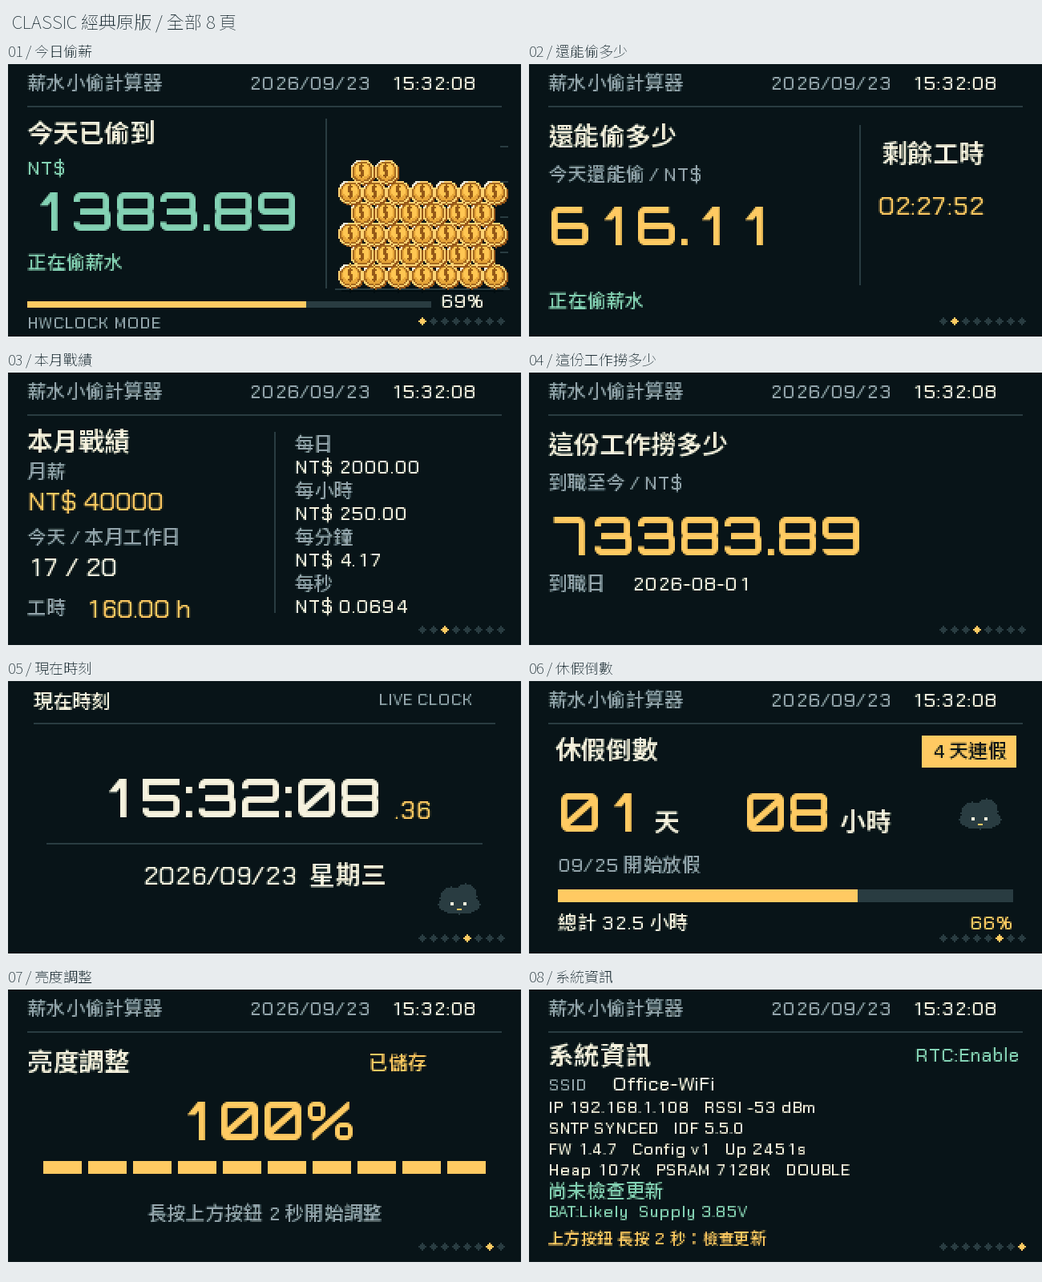
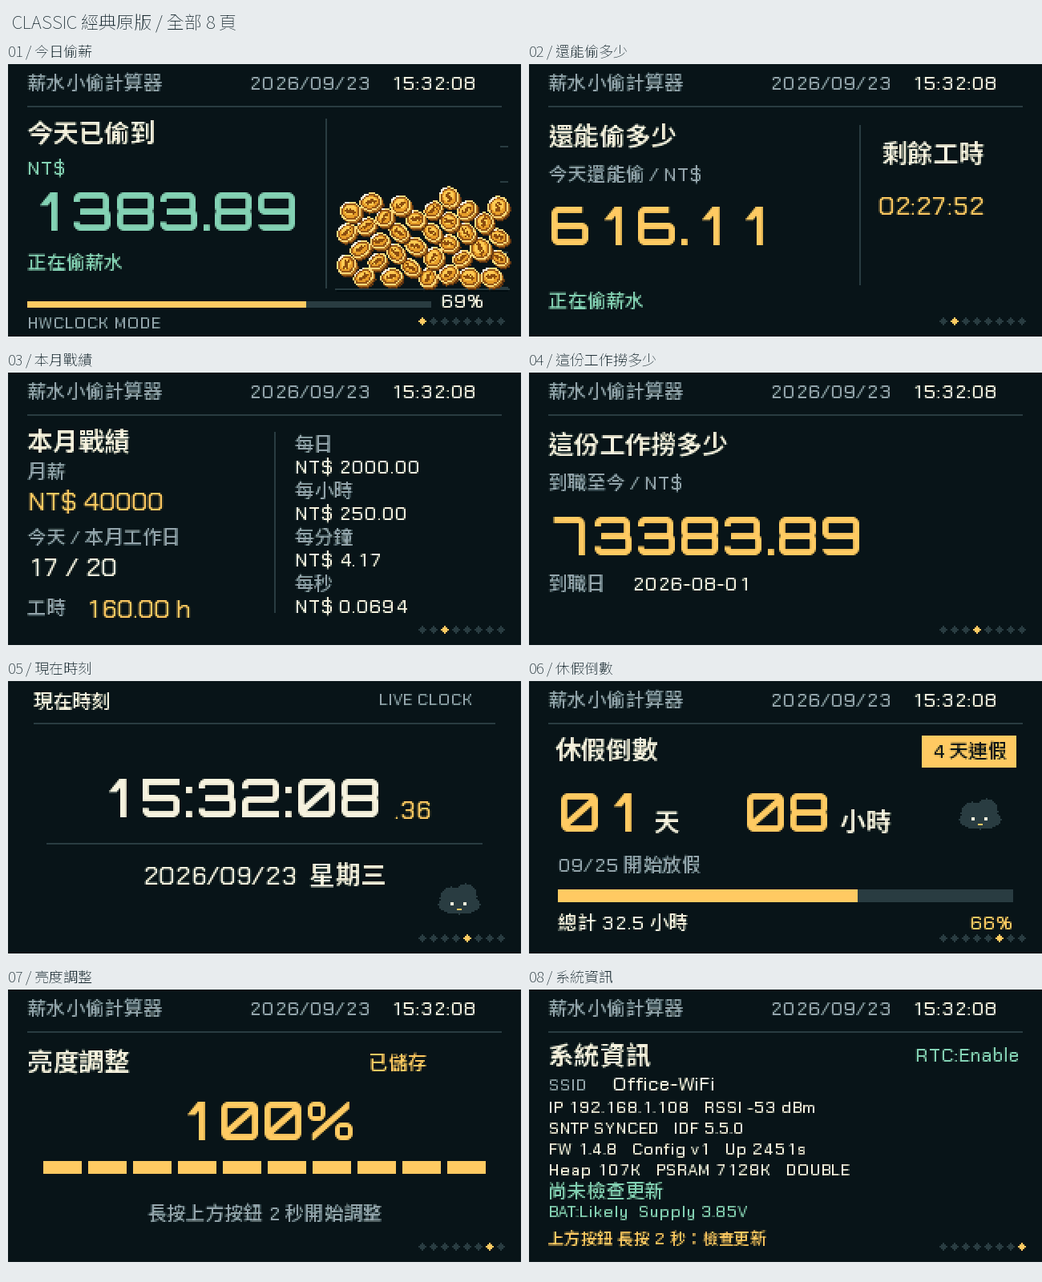
Release v1.4.8: dimensional coins and randomized collision piles

Changed region(s): [[0.3077, 0.125, 0.4923, 0.25]]

diff --git a/components/coin_physics/coin_physics.cpp b/components/coin_physics/coin_physics.cpp
@@ -26,11 +26,28 @@ void CoinPhysicsEngine::spawn() {
     *slot={};
     slot->radius=random(MIN_RADIUS,MAX_RADIUS);
     slot->x=random(LEFT+slot->radius,RIGHT-slot->radius);
+    float pile_top=FLOOR;
+    for(const auto &c:coins_)if(c.active && c.sleeping)pile_top=std::min(pile_top,c.y-c.radius);
+    const bool crowded=pile_top<TOP+4*MAX_RADIUS;
+    if(crowded) {
+        // Near capacity, scatter into a lower part of the pile instead of hiding
+        // earned coins above the screen. Landing is still resolved by collisions.
+        float lowest=-1e9f;
+        for(unsigned trial=0;trial<16;++trial) {
+            const float x=random(LEFT+slot->radius,RIGHT-slot->radius);
+            float y=FLOOR-slot->radius;
+            for(const auto &c:coins_)if(c.active && c.sleeping) {
+                const float dx=x-c.x,r=slot->radius+c.radius;
+                if(std::abs(dx)<r)y=std::min(y,c.y-std::sqrt(r*r-dx*dx));
+            }
+            if(y>lowest) { lowest=y;slot->x=x; }
+        }
+    }
     slot->y=TOP-slot->radius-random(0,8);
     // Burst spawns form a separated queue above the clipped display area.
     for (const auto &c:coins_) if (c.active)
         slot->y=std::min(slot->y,c.y-c.radius-slot->radius-2.f);
-    slot->vx=random(-25,25); slot->vy=random(6,20);
+    slot->vx=crowded?random(-8,8):random(-25,25); slot->vy=random(6,20);
     slot->rotation=random(-3.14f,3.14f);
     slot->angularVelocity=random(3,8) * (random(0,1) > .5f ? 1 : -1);
     slot->restitution=random(.34f,.49f); slot->friction=random(.52f,.67f);
@@ -45,24 +62,68 @@ void CoinPhysicsEngine::rest_coin() {
     c.rotation=.2f; c.sleeping=true;
 }
 void CoinPhysicsEngine::set_count(unsigned count,bool animate_last) {
-    reset();
     count=std::min(count,MAX_COINS);
-    for(unsigned i=0;i<count;++i) {
-        const unsigned pair=i/13,within=i%13;
-        const bool inset=within>=7;
-        const unsigned row=pair*2+unsigned(inset),column=inset?within-7:within;
-        const float x=LEFT+(RIGHT-LEFT-14*MAX_RADIUS)/2+MAX_RADIUS
-                     +column*2*MAX_RADIUS+(inset?MAX_RADIUS:0);
-        const float y=FLOOR-MAX_RADIUS-row*1.7320508f*MAX_RADIUS;
-        if(animate_last && i+1==count) {
-            spawn();
-            coins_[i].x=x;coins_[i].vx=0;
-        } else {
-            auto &c=coins_[i];
-            c.active=c.sleeping=true;c.radius=MAX_RADIUS;c.x=x;c.y=y;
-            c.rotation=.2f;c.restitution=.4f;c.friction=.6f;c.order=++order_;
+    unsigned current=0;
+    for(const auto &c:coins_)current+=c.active;
+    if(animate_last && count==current+1) { spawn();return; }
+    reset();
+    const unsigned settled=count-(animate_last && count>0 ? 1U : 0U);
+    for(unsigned i=0;i<settled;++i) {
+        spawn();auto &c=coins_[i];
+        float best=-1e9f;
+        // A restart restores contact pockets directly instead of running seconds
+        // of simulation in the display task. Random radii and pocket choices keep
+        // the pile irregular. Each pocket rests on the floor, wall + coin, or two coins.
+        const auto consider=[&](float x,float y) {
+            if(x<LEFT+c.radius-.001f || x>RIGHT-c.radius+.001f || y>FLOOR-c.radius+.001f)return;
+            for(unsigned j=0;j<i;++j) {
+                const auto &b=coins_[j];const float dx=x-b.x,dy=y-b.y,r=c.radius+b.radius;
+                if(dx*dx+dy*dy<(r-.001f)*(r-.001f))return;
+            }
+            const float score=y+random(-2.f,2.f);
+            if(score>best) { best=score;c.x=x;c.y=y; }
+        };
+        consider(LEFT+c.radius,FLOOR-c.radius);
+        consider(RIGHT-c.radius,FLOOR-c.radius);
+        for(unsigned trial=0;trial<12;++trial)
+            consider(random(LEFT+c.radius,RIGHT-c.radius),FLOOR-c.radius);
+        for(unsigned j=0;j<i;++j) {
+            const auto &a=coins_[j];const float ra=c.radius+a.radius;
+            // Floor contacts beside a bottom coin, and contacts against either wall.
+            const float dy=FLOOR-c.radius-a.y;
+            if(std::abs(dy)<ra) {
+                const float dx=std::sqrt(ra*ra-dy*dy);
+                consider(a.x-dx,FLOOR-c.radius);consider(a.x+dx,FLOOR-c.radius);
+            }
+            for(const float x:{LEFT+c.radius,RIGHT-c.radius}) {
+                const float dx=x-a.x;
+                if(std::abs(dx)<ra)consider(x,a.y-std::sqrt(ra*ra-dx*dx));
+            }
+            for(unsigned k=j+1;k<i;++k) {
+                const auto &b=coins_[k];const float rb=c.radius+b.radius;
+                const float dx=b.x-a.x,dy=b.y-a.y,d=std::sqrt(dx*dx+dy*dy);
+                if(d<.001f || d>ra+rb || d<std::abs(ra-rb))continue;
+                const float along=(ra*ra-rb*rb+d*d)/(2*d);
+                const float height=std::sqrt(std::max(0.f,ra*ra-along*along));
+                const float x=a.x+along*dx/d,y=a.y+along*dy/d;
+                const auto pocket=[&](float px,float py) {
+                    if(py<std::min(a.y,b.y) && px>=std::min(a.x,b.x) && px<=std::max(a.x,b.x))consider(px,py);
+                };
+                pocket(x-height*dy/d,y+height*dx/d);
+                pocket(x+height*dy/d,y-height*dx/d);
+            }
         }
+        // A vertical drop still finds an exact support if no two-contact pocket fits.
+        if(best==-1e9f) {
+            c.y=FLOOR-c.radius;
+            for(unsigned j=0;j<i;++j) {
+                const auto &b=coins_[j];const float dx=c.x-b.x,r=c.radius+b.radius;
+                if(std::abs(dx)<r)c.y=std::min(c.y,b.y-std::sqrt(r*r-dx*dx));
+            }
+        }
+        c.vx=c.vy=c.angularVelocity=0;c.sleeping=true;c.quietTime=.35f;
     }
+    if(animate_last && count)spawn();
 }
 void CoinPhysicsEngine::supported(std::array<bool,MAX_COINS> &result) const {
     result.fill(false);
@@ -140,6 +201,7 @@ void CoinPhysicsEngine::substep(float h) {
             if (distance > .0001f) { nx=dx/distance; ny=dy/distance; }
             const float approach=(b.vx-a.vx)*nx+(b.vy-a.vy)*ny;
             const float penetration=radius-distance;
+            const bool restingA=a.sleeping && supports[i],restingB=b.sleeping && supports[j];
             if (approach < -28.f || penetration > .7f) {
                 if (a.sleeping) wake(a);
                 if (b.sleeping) wake(b);
@@ -153,15 +215,21 @@ void CoinPhysicsEngine::substep(float h) {
                 b.x+=nx*correction*massB; b.y+=ny*correction*massB;
             }
             if (approach < 0) {
+                // A settled, supported pile resists the initial downward hit as
+                // a group. Keep positional correction symmetric; side impacts
+                // and subsequent movement still use the normal free-coin mass.
+                const float impactA=massA*(restingA && std::abs(ny)>.5f ? .2f : 1.f);
+                const float impactB=massB*(restingB && std::abs(ny)>.5f ? .2f : 1.f);
+                const float impactSum=impactA+impactB;
                 const float restitution=approach < -35.f ? std::min(a.restitution,b.restitution) : 0;
-                const float impulse=-(1+restitution)*approach/massSum;
-                a.vx-=impulse*nx*massA; a.vy-=impulse*ny*massA;
-                b.vx+=impulse*nx*massB; b.vy+=impulse*ny*massB;
+                const float impulse=-(1+restitution)*approach/impactSum;
+                a.vx-=impulse*nx*impactA; a.vy-=impulse*ny*impactA;
+                b.vx+=impulse*nx*impactB; b.vy+=impulse*ny*impactB;
                 const float tangent=(b.vx-a.vx)*(-ny)+(b.vy-a.vy)*nx;
                 const float limit=std::min(a.friction,b.friction)*impulse;
-                const float friction=std::clamp(-tangent/massSum,-limit,limit);
-                a.vx-=friction*(-ny)*massA; a.vy-=friction*nx*massA;
-                b.vx+=friction*(-ny)*massB; b.vy+=friction*nx*massB;
+                const float friction=std::clamp(-tangent/impactSum,-limit,limit);
+                a.vx-=friction*(-ny)*impactA; a.vy-=friction*nx*impactA;
+                b.vx+=friction*(-ny)*impactB; b.vy+=friction*nx*impactB;
                 if (approach < -35.f) {
                     a.squash=std::max(a.squash,std::min(.1f,-approach/2200.f));
                     b.squash=std::max(b.squash,std::min(.1f,-approach/2200.f));

diff --git a/components/display/ui_renderer.cpp b/components/display/ui_renderer.cpp
@@ -54,6 +54,21 @@ public:
             rect(start,row,end-start+1,1,color);
         }
     }
+    void tilted_ellipse(float x,float y,float rx,float ry,float cs,float sn,uint16_t color) {
+        if(rx<.5f || ry<.5f)return;
+        const float ax=1/(rx*rx),ay=1/(ry*ry);
+        const float a=cs*cs*ax+sn*sn*ay,b=cs*sn*(ax-ay),d=sn*sn*ax+cs*cs*ay;
+        const float extent=std::sqrt(rx*rx*sn*sn+ry*ry*cs*cs);
+        const int first=std::max({top,clip_top,int(std::floor(y-extent))});
+        const int last=std::min({bottom-1,clip_bottom-1,int(std::ceil(y+extent))});
+        for(int row=first;row<=last;++row) {
+            const float dy=row-y,center=-b*dy/a,span2=(1-d*dy*dy)/a+center*center;
+            if(span2<0)continue;
+            const float span=std::sqrt(span2);
+            const int start=int(std::ceil(x+center-span)),end=int(std::floor(x+center+span));
+            rect(start,row,end-start+1,1,color);
+        }
+    }
     void pixel(int x,int y,uint16_t color,uint8_t alpha=15) {
         if (theme==DisplayTheme::Handheld) alpha=alpha>=8?15:0;
         color=this->color(color);
@@ -174,30 +189,45 @@ const char *work_label(WorkState state) {
     }
 }
 void coin(Canvas &c,const Coin &coin) {
-    // Face-on at rest: visible circular rims meet where the physics colliders meet.
-    const float spin=coin.sleeping ? 0.f : std::min(1.f,std::abs(coin.angularVelocity)/3.f);
-    const float face=1.f-spin*(1.f-std::max(.35f,std::abs(std::cos(coin.rotation))));
+    // Keep the settled pose: tilted faces, milled edges and directional lighting
+    // give each small coin depth even after its physical motion has stopped.
+    const float spin=std::min(1.f,std::abs(coin.angularVelocity)/3.f);
+    const float turn=std::abs(std::cos(coin.rotation));
+    const float rest_face=.72f+.25f*turn;
+    const float face=rest_face-spin*(rest_face-.32f)*(1-turn);
+    const float roll=coin.rotation*.7f,cs=std::cos(roll),sn=std::sin(roll);
     const float rx=coin.radius*face*(1+coin.squash*.65f),ry=coin.radius*(1-coin.squash);
     const float height=std::max(0.f,CoinPhysicsEngine::FLOOR-coin.y-coin.radius);
     if (height>2) c.ellipse(coin.x,CoinPhysicsEngine::FLOOR+2,std::max(3.f,coin.radius-height*.08f),1,rgb(7,13,17));
-    c.ellipse(coin.x+1,coin.y+1,rx,ry,rgb(145,87,31));
-    c.ellipse(coin.x,coin.y,rx,ry,rgb(251,211,117));
-    c.ellipse(coin.x,coin.y,rx-1,ry-1,rgb(166,107,37));
-    c.ellipse(coin.x,coin.y,rx-2,ry-2,rgb(231,167,58));
-    c.ellipse(coin.x,coin.y-1,rx-3,ry-3,rgb(248,196,81));
-    // Short moving highlight arc, with an inset rim and a compressed dollar mark.
+    const auto disc=[&](float dx,float dy,float inset,uint16_t color) {
+        c.tilted_ellipse(coin.x+dx,coin.y+dy,rx-inset,ry-inset,cs,sn,color);
+    };
+    disc(1.5f,1.8f,0,rgb(92,49,18));
+    disc(.8f,1.f,0,rgb(174,108,33));
+    disc(0,0,0,rgb(255,218,124));
+    disc(0,0,1,rgb(145,85,25));
+    disc(0,0,2,rgb(228,158,44));
+    disc(-.3f,-.7f,3,rgb(255,202,86));
+    const auto point=[&](float x,float y,uint16_t color) {
+        c.pixel(int(std::lround(coin.x+cs*x-sn*y)),int(std::lround(coin.y+sn*x+cs*y)),color);
+    };
+    // Short rim highlights and edge grooves remain visible at 12-14 pixels.
     for (int i=0;i<14;++i) {
-        const float angle=-2.7f+i*.07f+std::sin(coin.rotation)*.22f;
-        c.pixel(int(coin.x+std::cos(angle)*(rx-1)),int(coin.y+std::sin(angle)*(ry-1)),INK);
+        const float angle=-2.7f+i*.07f-roll;
+        point(std::cos(angle)*(rx-.6f),std::sin(angle)*(ry-.6f),INK);
     }
-    if (face>.28f) {
-        const int cx=int(coin.x), cy=int(coin.y);
-        const int w=std::max(1,int(coin.radius*.25f*face)), h=std::max(3,int(coin.radius*.5f));
-        const auto ink=rgb(147,88,26);
-        c.rect(cx,cy-h-1,1,h*2+3,ink);
-        c.rect(cx-w,cy-h,w*2+1,1,ink);c.rect(cx-w,cy-h,1,h,ink);
-        c.rect(cx-w,cy,w*2+1,1,ink);c.rect(cx+w,cy,1,h,ink);
-        c.rect(cx-w,cy+h,w*2+1,1,ink);
+    for(int i=0;i<4;++i) {
+        const float angle=.15f+i*.55f-roll;
+        const float x=std::cos(angle)*rx,y=std::sin(angle)*ry;
+        c.pixel(int(std::lround(coin.x+cs*x-sn*y+1.3f)),int(std::lround(coin.y+sn*x+cs*y+1.5f)),rgb(104,61,20));
+    }
+    if (face>.4f) {
+        const int w=std::max(1,int(coin.radius*.25f)),h=std::max(2,int(coin.radius*.43f));
+        const auto ink=rgb(139,79,23);
+        for(int y=-h-1;y<=h+1;++y)point(0,float(y),ink);
+        for(int x=-w;x<=w;++x)for(int y:{-h,0,h})point(x*face,float(y),ink);
+        for(int y=-h;y<0;++y)point(-w*face,float(y),ink);
+        for(int y=0;y<=h;++y)point(w*face,float(y),ink);
     }
 }
 void boot_scene(Canvas &c,const UiModel &m) {

diff --git a/tests/test_coin_stack.cpp b/tests/test_coin_stack.cpp
@@ -47,7 +47,59 @@ int main() {
         }
         CHECK(active==count);
     }
-    // A newly earned coin falls onto each row while the previous work is retained.
+    // Restored piles have varied poses, remain supported, and fit at every milestone.
+    for(uint32_t seed=1;seed<=32;++seed)for(unsigned count:{1U,13U,26U,39U,MAX_COINS}) {
+        CoinPhysicsEngine restored(seed);restored.set_count(count);
+        restored.update(.04f);check_geometry(restored,.01f);
+        for(unsigned i=0;i<count;++i) {
+            const auto &c=restored.coins()[i];
+            CHECK(c.sleeping && c.y-c.radius>=CoinPhysicsEngine::TOP);
+            if(i)CHECK(c.rotation!=restored.coins()[i-1].rotation);
+        }
+    }
+    CoinPhysicsEngine repeat_a(23),repeat_b(23),different(24);
+    repeat_a.set_count(26);repeat_b.set_count(26);different.set_count(26);
+    bool varied=false;
+    for(unsigned i=0;i<26;++i) {
+        CHECK(repeat_a.coins()[i].x==repeat_b.coins()[i].x && repeat_a.coins()[i].y==repeat_b.coins()[i].y);
+        varied|=repeat_a.coins()[i].x!=different.coins()[i].x || repeat_a.coins()[i].y!=different.coins()[i].y;
+    }
+    CHECK(varied);
+    // The actual single-increment API must preserve every existing coin, then
+    // let the random incoming coin rebound and wake neighbors through collisions.
+    CoinPhysicsEngine earned(17);earned.set_count(25);
+    const auto before_drop=earned.coins();earned.set_count(26,true);
+    for(unsigned i=0;i<25;++i) {
+        CHECK(earned.coins()[i].x==before_drop[i].x && earned.coins()[i].y==before_drop[i].y);
+        CHECK(earned.coins()[i].rotation==before_drop[i].rotation && earned.coins()[i].order==before_drop[i].order);
+    }
+    CHECK(!earned.coins()[25].sleeping && std::abs(earned.coins()[25].vx)>0);
+    bool bounced=false,woke_neighbors=false;
+    for(unsigned frame=0;frame<200;++frame) {
+        earned.update(.04f);check_geometry(earned,.55f);
+        bounced|=earned.coins()[25].vy<0;
+        for(unsigned i=0;i<25;++i)
+            woke_neighbors|=!earned.coins()[i].sleeping;
+    }
+    CHECK(bounced && woke_neighbors);
+    // A whole workday uses incremental drops, never the restore layout.
+    for(uint32_t seed=1;seed<=32;++seed) {
+        CoinPhysicsEngine day(seed);
+        for(unsigned count=1;count<=MAX_COINS;++count) {
+            day.set_count(count,true);
+            bool asleep=false;
+            for(unsigned frame=0;frame<200 && !asleep;++frame) {
+                day.update(.04f);asleep=true;
+                for(const auto &c:day.coins())if(c.active)asleep&=c.sleeping;
+            }
+            CHECK(asleep);check_geometry(day,.2f);
+            for(const auto &c:day.coins())if(c.active) {
+                if(c.y-c.radius<CoinPhysicsEngine::TOP)std::fprintf(stderr,"day seed %u count %u top %.2f x %.2f\n",seed,count,c.y-c.radius,c.x);
+                CHECK(c.y-c.radius>=CoinPhysicsEngine::TOP);
+            }
+        }
+    }
+    // A newly earned coin falls onto small and nearly-full piles.
     for(unsigned count:{1U,7U,8U,13U,14U,26U,39U,MAX_COINS}) {
         progress.set_count(count,true);CHECK(!progress.coins()[count-1].sleeping);
         advance(progress,8);check_geometry(progress,.2f);

diff --git a/tools/render_pages.cpp b/tools/render_pages.cpp
@@ -56,7 +56,7 @@ int main(int argc,char **argv) {
     if(!render(out/"manual_anniversary.ppm",m))return 1;
     m=base;m.page=3;m.page_position=7;m.ota.prompt=true;m.ota.state=OtaState::UPDATE_AVAILABLE;
     // Illustrative future version, not a statement about published releases.
-    std::strcpy(m.ota.latest_version,"1.4.8");
+    std::strcpy(m.ota.latest_version,"1.4.9");
     if(!render(out/"manual_update_prompt.ppm",m))return 1;
     m.ota.prompt=false;m.ota.foreground=true;m.ota.state=OtaState::DOWNLOADING;
     m.ota.percentage=43;m.ota.downloaded_bytes=1290000;m.ota.total_bytes=3000000;
@@ -69,6 +69,8 @@ int main(int argc,char **argv) {
         m=base;m.theme=static_cast<DisplayTheme>(theme);t.tm_hour=hours[step];t.tm_min=t.tm_sec=0;
         m.salary=calculate_salary(m.config,t,0,true,m.preferences.job_start_date);
         std::snprintf(m.clock,sizeof(m.clock),"%02d:00:00",hours[step]);
+        // Use matching random piles across themes so the comparison is meaningful.
+        physics=CoinPhysicsEngine(42);
         physics.set_count(work_coin_count(m.salary));
         if(!render(out/("progress_"+std::to_string(theme)+"_"+std::to_string(step)+".ppm"),m))return 1;
     }

diff --git a/components/coin_physics/include/coin_physics.h b/components/coin_physics/include/coin_physics.h
@@ -1,7 +1,7 @@
 #pragma once
 #include <array>
 #include <cstdint>
-// Eight close-packed rows alternate seven/six coins inside the 108 x 109 area.
+// One workday's coins, with room for an irregular pile inside the 108 x 109 area.
 constexpr unsigned MAX_COINS = 52;
 struct Coin {
     float x{}, y{}, vx{}, vy{}, rotation{}, angularVelocity{}, radius{};
@@ -15,13 +15,13 @@ public:
     explicit CoinPhysicsEngine(uint32_t seed=1) : seed_(seed ? seed : 1) {}
     void reset();
     void spawn();
-    // Restore earned coins immediately; optionally let only the newest one fall.
+    // Restore a random supported pile; a single increment preserves it and drops a coin.
     void set_count(unsigned count,bool animate_last=false);
     void rest_coin();
     void update(float dt);
     const std::array<Coin,MAX_COINS> &coins() const { return coins_; }
     static constexpr float LEFT=204, RIGHT=312, TOP=30, FLOOR=139;
-    static constexpr float MIN_RADIUS=7.5f, MAX_RADIUS=7.5f;
+    static constexpr float MIN_RADIUS=6.f, MAX_RADIUS=7.f;
 private:
     float random(float min,float max);
     void supported(std::array<bool,MAX_COINS> &result) const;

diff --git a/docs/architecture.md b/docs/architecture.md
@@ -84,7 +84,9 @@ flowchart TD
 
 `UiAnimation` 以 `floor(worked_seconds × 52 / daily_work_seconds)` 決定今日金幣數（上限 52），不再以收入整數增加觸發循環掉幣。尚未上班、休假、無有效時間或缺日曆時為零；午休維持當前進度，最後一枚在完成當日工時時才出現，下班頁保留滿金幣。
 
-金幣直徑 15 px，以七枚／六枚交錯的八行填滿動畫區。`CoinPhysicsEngine::set_count()` 恢復已有工時的穩定排列，一般跨越單枚門檻時只讓新增的一枚落下；重啟、跨日、時間跳動與校時回退則重建符合快照的枚數，不補播大量掉幣。動畫只讀取薪資 snapshot，不改計薪、NVS 或跨 task 同步契約。較大的金幣狀態由 display task 專用的 static 物件持有，避免占滿 8 KiB task stack，無須 PSRAM。
+金幣直徑隨機為 12–14 px，幣面保留不同傾角、厚邊與光影。`CoinPhysicsEngine::set_count()` 在一般單枚增量時保留全部舊金幣，只新增隨機落點、速度與旋轉的金幣，由碰撞求解自然堆積；接近滿堆時偏向較低的落點，避免金幣堆到畫面外。靜止且受支撐的堆疊在首次承受向下撞擊時採較大的有效質量，使新幣回彈清楚，側向撞擊仍能推動鄰幣。
+
+重啟、跨日、時間跳動與校時回退時，按快照枚數重新產生有支撐、不重疊的不規則堆疊：以地面、牆邊或兩枚金幣間的接觸位置還原，不在 display task 補跑長時間物理模擬。動畫只讀取薪資 snapshot，不改計薪、NVS 或跨 task 同步契約。金幣狀態由 display task 專用的 static 物件持有，避免占滿 8 KiB task stack，無須 PSRAM。
 
 核心：[salary_math.cpp](../components/app_core/salary_math.cpp)。每天薪資 = 目前月薪 ÷ 當月政府行事曆工作日數；每秒薪資 = 每日薪資 ÷ 上午與下午工作秒數。午休、休假及非工作時間不增加今日金額。
 

diff --git a/docs/development.md b/docs/development.md
@@ -93,7 +93,7 @@ python tools/package_page_previews.py --font /path/to/NotoSansTC.ttf --docs
 | `lunch.gif`、`rest.gif`、`holiday.gif` | 午休動畫、下班滿金幣靜態畫面及休假動畫 |
 | `coin_progress.png` | 0%、25%、50%、75%、100% 工時的三主題對照，由真實薪資快照產生 |
 
-手冊插圖包含設定與校時等待、紀念日、亮度調整／儲存、更新提示／下載進度、電池／外部供電、收入、費率、到職累積、休假倒數及三主題對照。`render_pages` 另外產生八個 `manual_*.ppm` 情境與 15 個 `progress_*.ppm` 工時情境，並檢查所有輸出的整幀／strip 一致性。金幣 GIF 使用正常時間，示範 14:00 新增第 26 枚，不使用加速掉幣。更新提示中的 v1.4.8 是固定模擬版本，不代表已發布；手冊圖說也必須保留此說明。
+手冊插圖包含設定與校時等待、紀念日、亮度調整／儲存、更新提示／下載進度、電池／外部供電、收入、費率、到職累積、休假倒數及三主題對照。`render_pages` 另外產生八個 `manual_*.ppm` 情境與 15 個 `progress_*.ppm` 工時情境，並檢查所有輸出的整幀／strip 一致性。金幣 GIF 使用正常時間，示範 14:00 新增第 26 枚，不使用加速掉幣。更新提示中的 v1.4.9 是固定模擬版本，不代表已發布；手冊圖說也必須保留此說明。
 
 這些素材使用真實 C++ 繪圖程式與固定測試輸入。主機測試涵蓋整幀／strip 一致性，但不代表已驗證實板流暢度、供電、Wi-Fi 或 OTA。發布文件前檢視三種主題的八頁、動畫及手冊插圖；只納入上述文件素材，不提交整個 `.artifacts/`。操作說明集中在 [使用手冊](user-manual.md)，README 保留簡介與快速開始。
 

diff --git a/docs/releases/v1.4.8.md b/docs/releases/v1.4.8.md
@@ -1,0 +1,11 @@
+# v1.4.8 — 立體金幣與隨機碰撞堆疊
+
+- 金幣改為自然、不規則的堆疊。新金幣從隨機位置落下，保留原有金幣的位置，透過碰撞與回彈堆積；接近滿堆時偏向較低的落點，避免金幣堆到畫面外。
+- 金幣直徑約 12–14 像素，大小與傾角各異。幣面加入厚邊、刻紋、高光與陰影，翻轉落下和靜止時都保留立體感。
+- 改善撞擊已靜止金幣堆時的回彈反應，並保留側向撞擊推動鄰幣的效果。重開機或校時後，依工時還原有支撐、不重疊的不規則金幣堆。
+- 維持每個工作日 52 枚、依有效工時逐枚增加的規則；午休不增加，下班才集滿，與月薪高低無關。
+- 更新 README、圖解使用手冊、三主題展示圖與碰撞動畫；新增 32 組隨機種子的還原與完整工作日回歸測試。
+
+提供 PSRAM／無 PSRAM 兩種韌體及各自的 SHA-256 校驗檔。既有 NVS 設定、分區布局與 A/B OTA 回滾保持相容。
+
+驗證範圍包含兩組態建置、主機回歸、發版工具檢查，以及三主題整幀／strip 渲染比對。本次未進行實板燒錄、動畫流暢度或裝置 OTA 驗證。

diff --git a/README.md b/README.md
@@ -16,7 +16,7 @@
 
 [開機動畫](docs/boot.gif) · [金幣堆疊近照](docs/stack_settled.png) · [午休動畫](docs/lunch.gif) · [下班滿金幣](docs/rest.gif) · [休假動畫](docs/holiday.gif)
 
-金幣縮小為直徑約 15 像素，一天共 **52 枚**。每枚代表「當日有效工時 ÷ 52」，午休不增加；8 小時工時約每 9 分 14 秒新增一枚，最後一枚在下班時出現，下班後保留滿金幣。重開機會依當天已完成工時還原，不從零開始，也不因月薪較高而提早裝滿。上方動畫示範 14:00 達到一半工時時新增第 26 枚。
+金幣直徑約 12–14 像素，保留傾斜幣面、厚邊與光影；從隨機位置落下、碰撞回彈，自然堆積，一天共 **52 枚**。每枚代表「當日有效工時 ÷ 52」，午休不增加；8 小時工時約每 9 分 14 秒新增一枚，最後一枚在下班時出現，下班後保留滿金幣。重開機會依當天已完成工時還原，不從零開始，也不因月薪較高而提早裝滿。上方動畫示範 14:00 達到一半工時時新增第 26 枚。
 
 ![三種主題在零、四分之一、一半、四分之三及下班時的金幣累積](docs/coin_progress.png)
 
